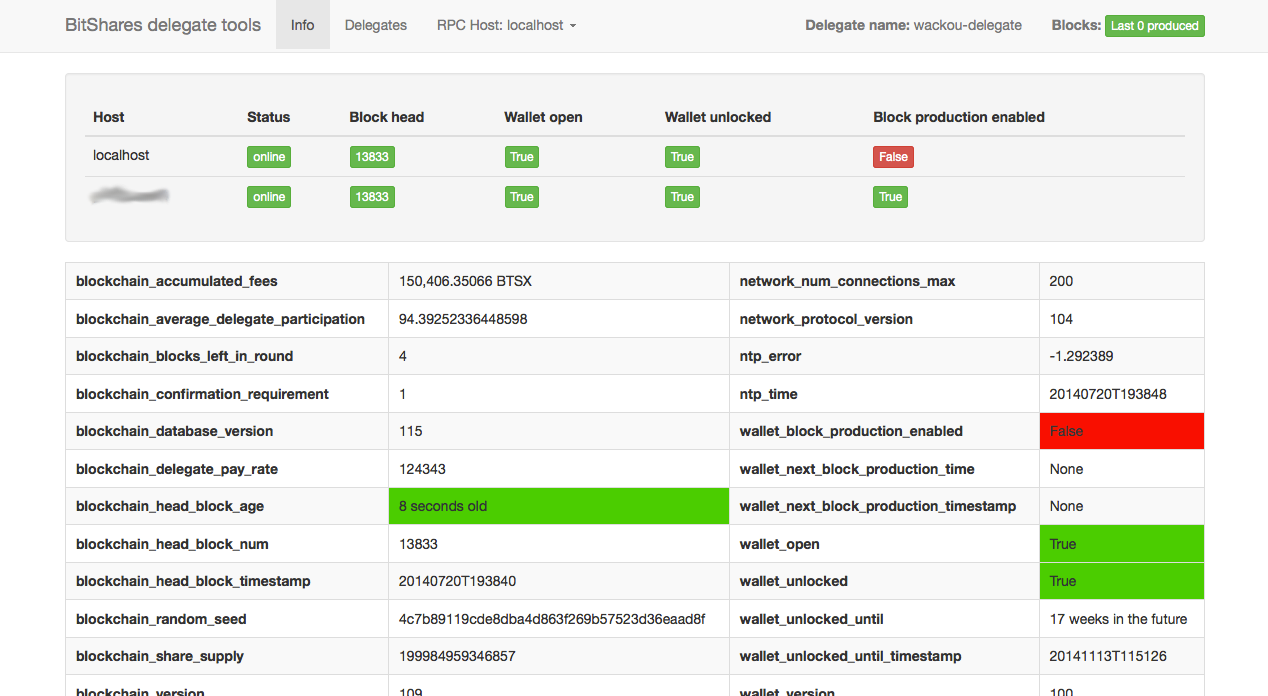
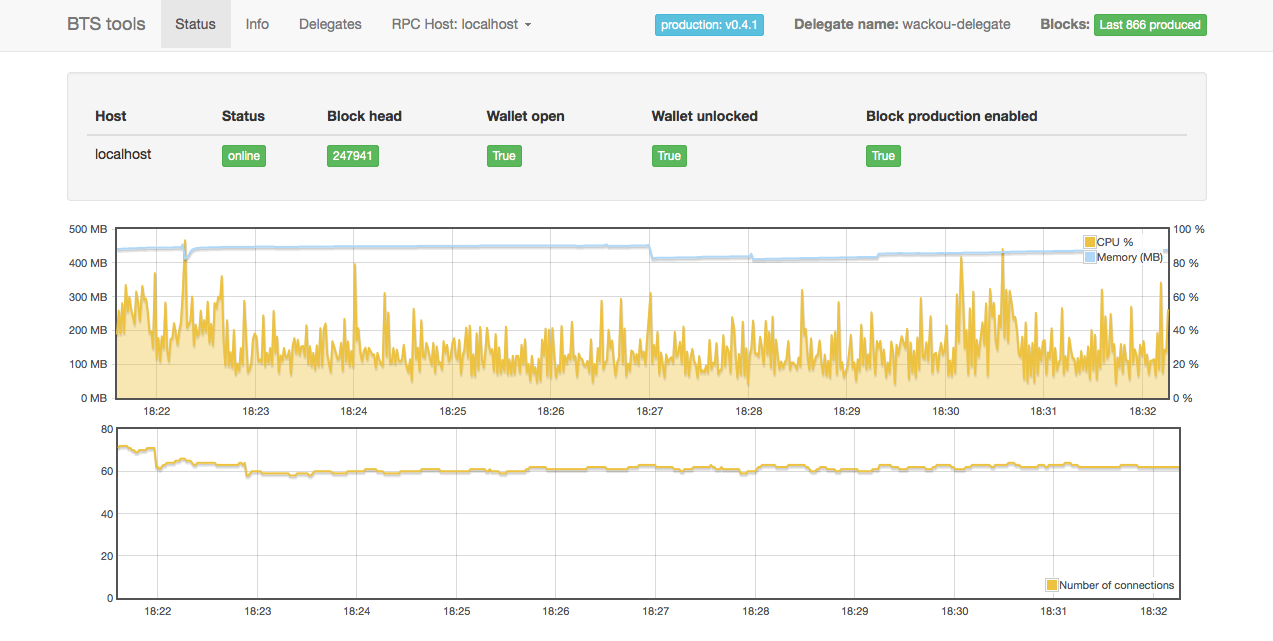
Nicer screenshots

diff --git a/README.md b/README.md
@@ -43,9 +43,17 @@ You should edit the bitshares_delegate_tools/config.json file and then run:
 
     $ python -m bitshares_delegate_tools.wsgi
      
-Obligatory screenshot:
 
-![Obligatory screenshot](bts_tools_screenshot.png)
+### Screenshots ###
+
+Monitoring the status of your running bts client binary
+
+![Status screenshot](bts_tools_screenshot.png)
+
+Monitoring multiple instances at the same time, to have an overview while
+running backup nodes and re-compiling your main node.
+
+![Info screenshot](bts_tools_screenshot2.png)
 
 
 Things to know (best practices and "issues") READ IT !!!
